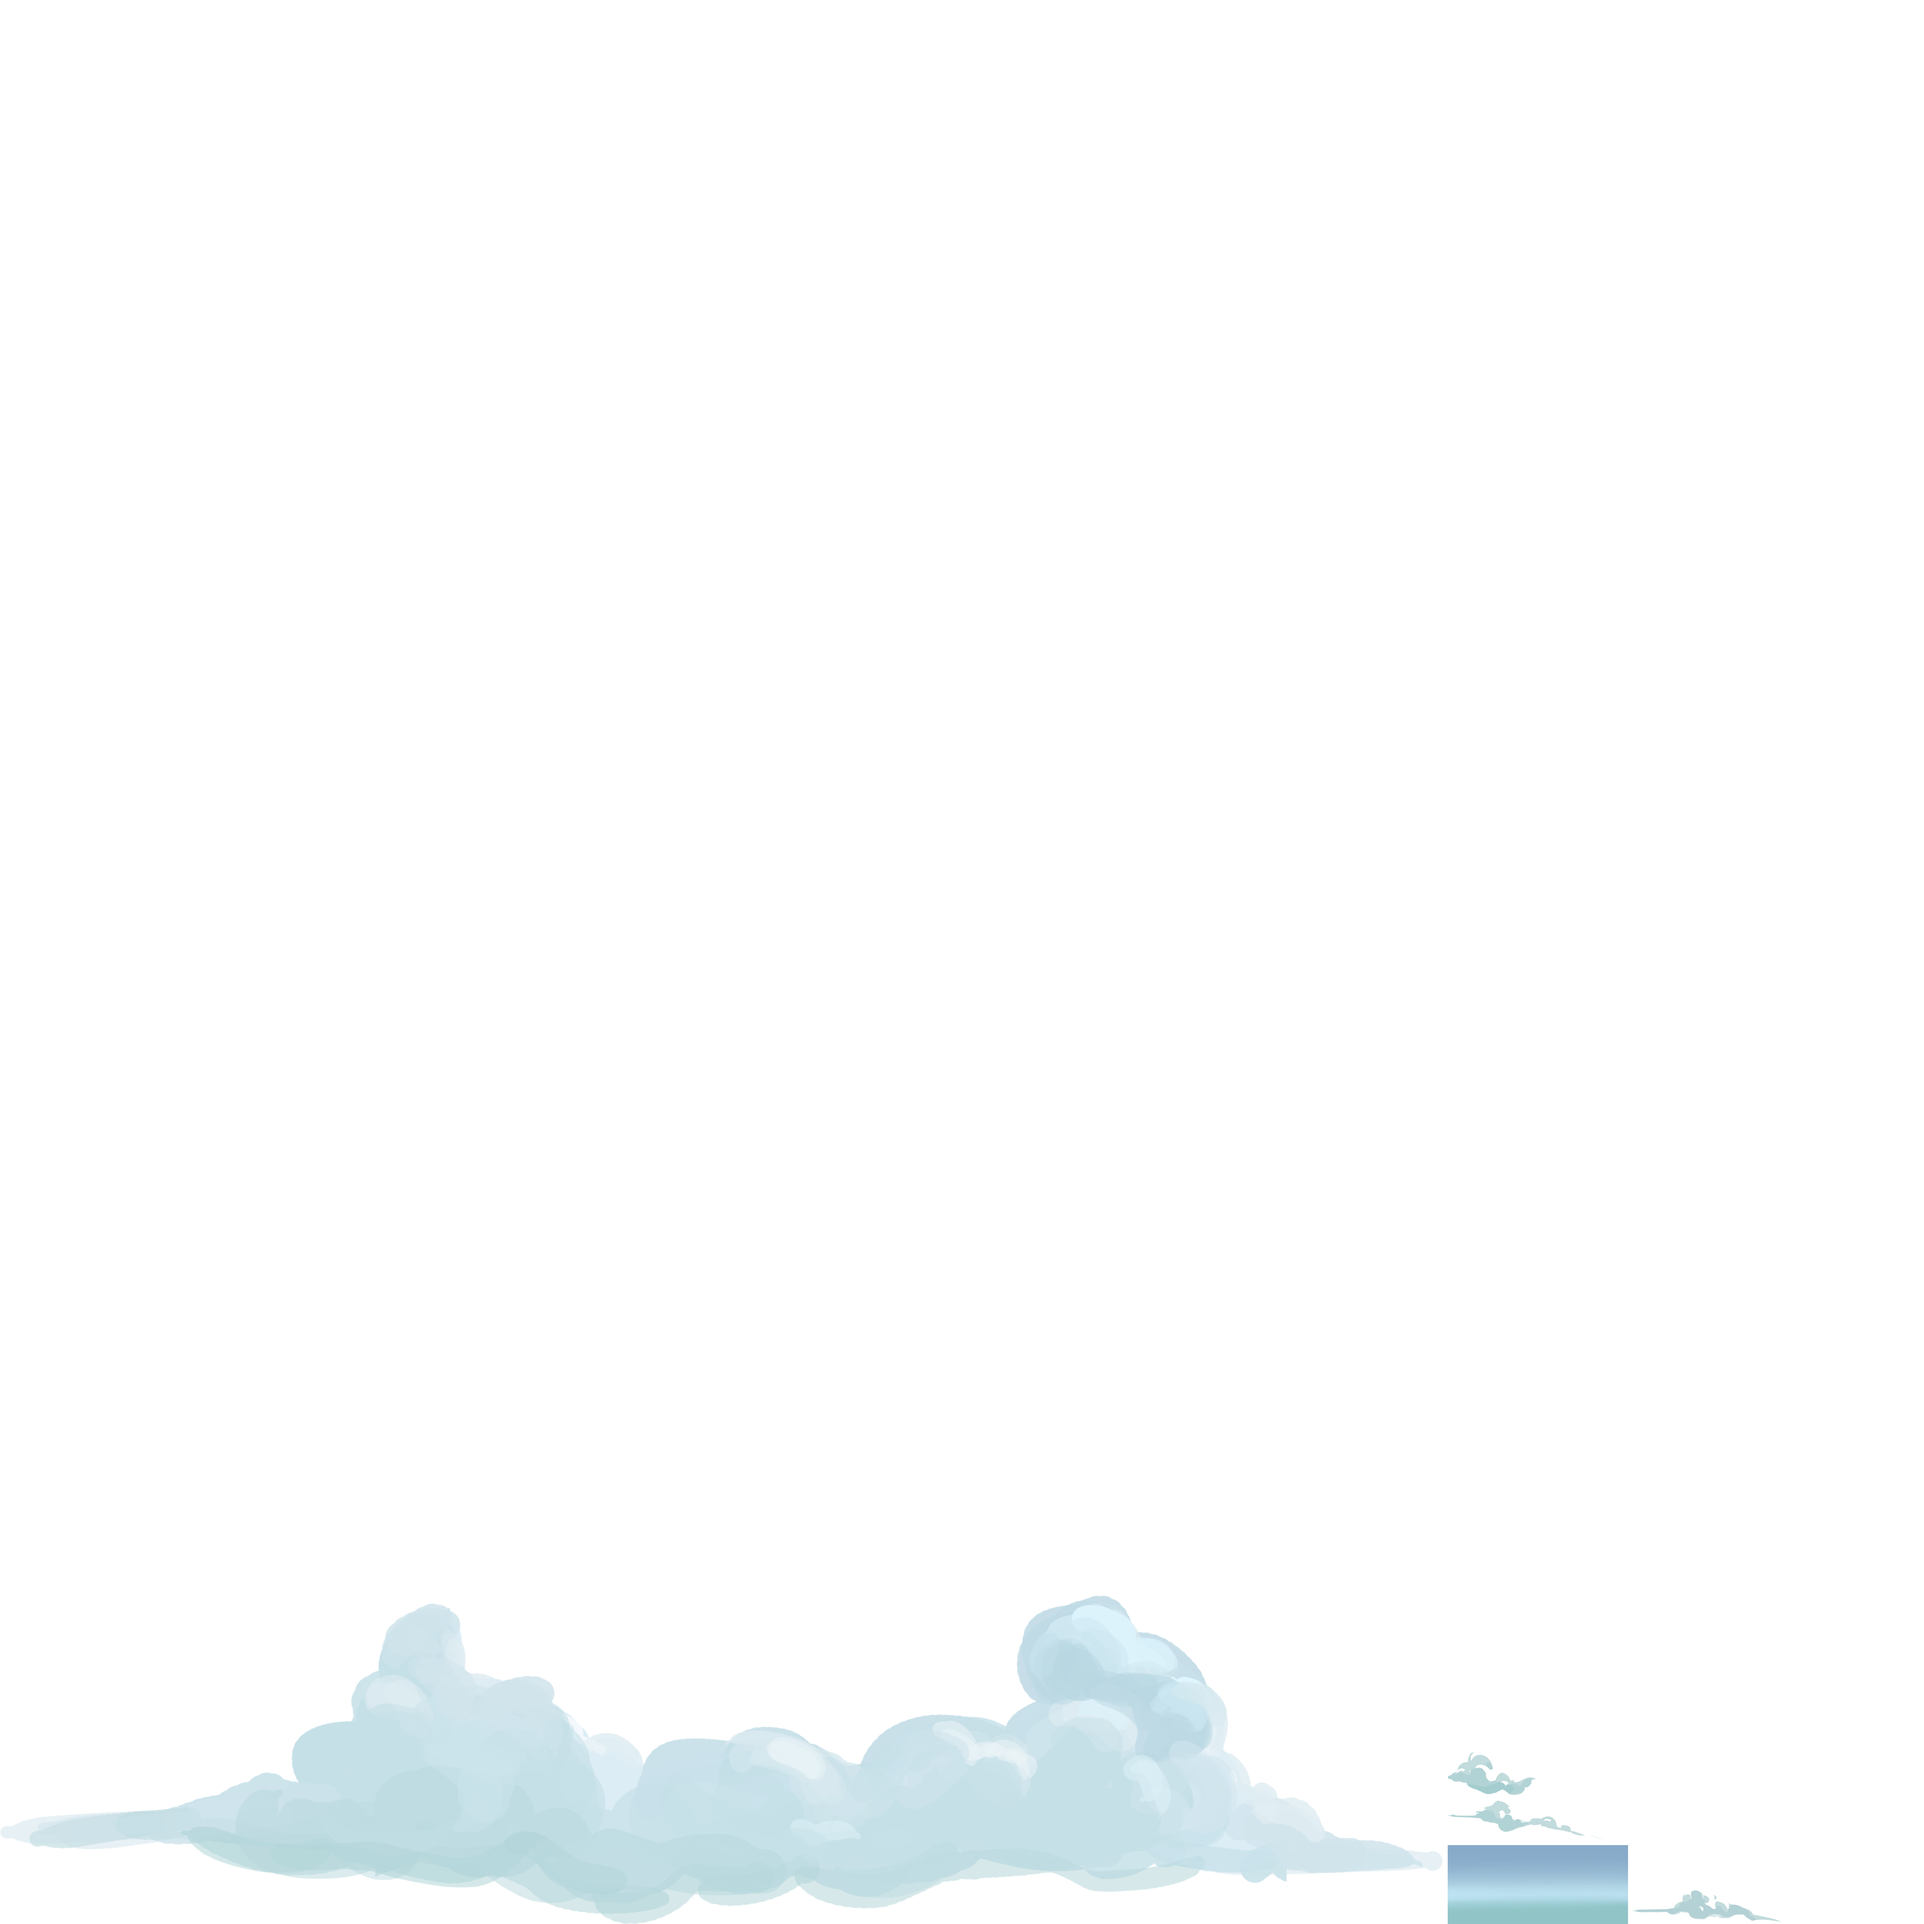
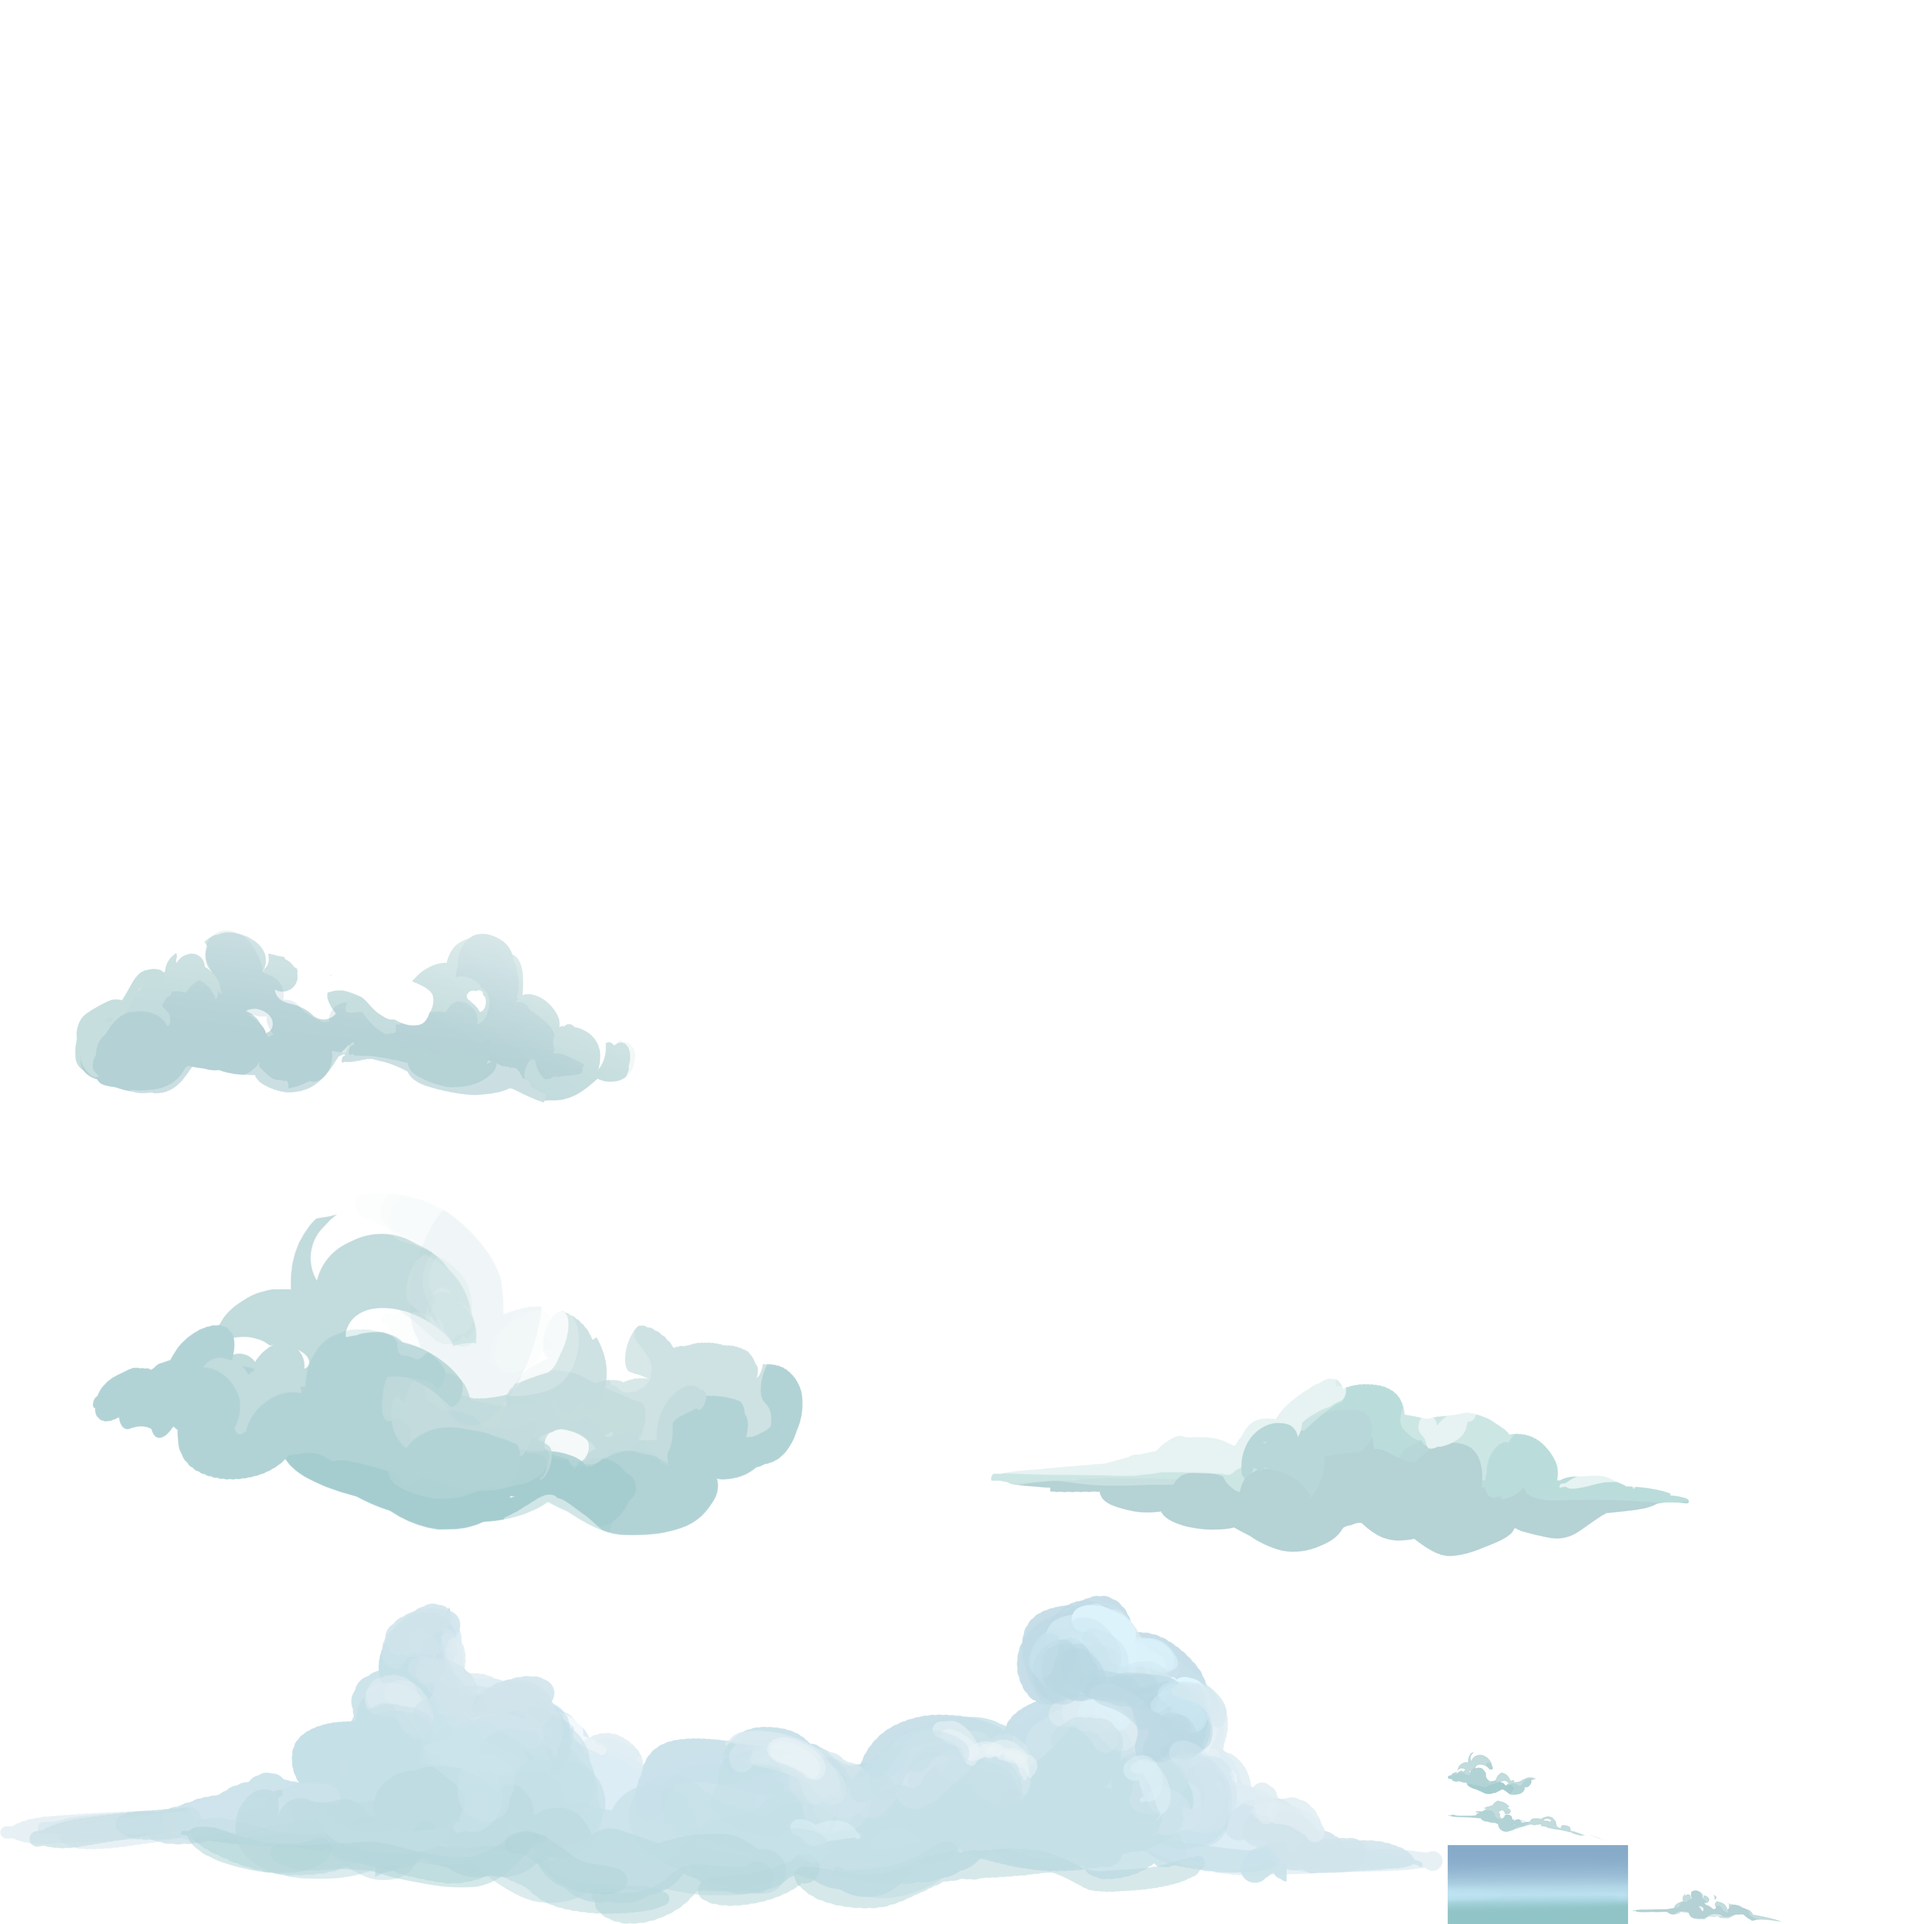
Cleaned up the Sea Captain and added in the new clouds

Changed region(s): [[0.0312, 0.625, 0.4375, 0.8125], [0.0312, 0.4688, 0.3438, 0.5938], [0.5312, 0.7188, 0.875, 0.8125]]

diff --git a/assets/scripts/NPC/SpecificNPCs/SeaCaptain/SeaCaptainTreasureHuntSchedule.cs b/assets/scripts/NPC/SpecificNPCs/SeaCaptain/SeaCaptainTreasureHuntSchedule.cs
@@ -7,11 +7,11 @@ public class SeaCaptainTreasureHuntSchedule : Schedule {
 	
 	protected override void Init ()
 	{
-		Vector3 startingPosition = new Vector3(74f, -3.09f + LevelManager.levelYOffSetFromCenter, 0f);
-		Vector3 farmDigPos = new Vector3(52.5f, 16f + LevelManager.levelYOffSetFromCenter, 0f);
-		Vector3 reflectDigPos = new Vector3(-28f, 18f + LevelManager.levelYOffSetFromCenter, 0f);
-		Vector3 carpenterDigPos = new Vector3(16f, -1f + LevelManager.levelYOffSetFromCenter, 0f);
-		Vector3 beachDigPos = new Vector3(43f, -7.5f + LevelManager.levelYOffSetFromCenter, 0f);
+		Vector3 startingPosition = new Vector3(74f, -3.09f + LevelManager.levelYOffSetFromCenter, 1f);
+		Vector3 farmDigPos = new Vector3(52.5f, 16f + LevelManager.levelYOffSetFromCenter, 1f);
+		Vector3 reflectDigPos = new Vector3(-28f, 18f + LevelManager.levelYOffSetFromCenter, 1f);
+		Vector3 carpenterDigPos = new Vector3(16f, -1f + LevelManager.levelYOffSetFromCenter, 1f);
+		Vector3 beachDigPos = new Vector3(52f, -7.5f + LevelManager.levelYOffSetFromCenter, 1f);
 		
 		NPCChat startHuntChat = new NPCChat();
 		startHuntChat.AddChatInfo(new ChatInfo(_toManage, "Thanks matey! Let's go find me some treasure!"));
@@ -46,15 +46,19 @@ public class SeaCaptainTreasureHuntSchedule : Schedule {
 		SetCanInteract(false);
 		Add(new Task(new NPCChatState(_toManage, _toManage.player, startHuntChat)));
 		Add(new Task(new MoveThenMarkDoneState(_toManage, farmDigPos), _toManage, 3f, "It feels good to be exploring again."));
+		Add(new Task(new NPCChatState(_toManage, _toManage.player, new NPCChat(_toManage, "This looks like the spot"))));
 		Add(new Task(new DigState(_toManage, StringsItem.Apple)));
 		Add(new Task(new NPCChatState(_toManage, _toManage.player, farmDigChat)));
 		Add(new Task(new MoveThenMarkDoneState(_toManage, reflectDigPos), _toManage, 0, "Come now. The map says something about a reflection tree."));
+		Add(new Task(new NPCChatState(_toManage, _toManage.player, new NPCChat(_toManage, "Hopefully this is the spot"))));
 		Add(new Task(new DigState(_toManage)));
 		Add(new Task(new NPCChatState(_toManage, _toManage.player, reflectDigChat)));
-		Add(new Task(new MoveThenMarkDoneState(_toManage, carpenterDigPos), _toManage, 0, "Let's try there and hope the grumpy guy isn't there."));
+		Add(new Task(new MoveThenMarkDoneState(_toManage, carpenterDigPos), _toManage, 0, "Let's try over there and hope the grumpy guy isn't there."));
+		Add(new Task(new NPCChatState(_toManage, _toManage.player, new NPCChat(_toManage, "This had better be the spot!"))));
 		Add(new Task(new DigState(_toManage, StringsItem.Flute)));
 		Add(new Task(new NPCChatState(_toManage, _toManage.player, carpenterDigChat)));
 		Add(new Task(new MoveThenMarkDoneState(_toManage, beachDigPos), _toManage, 0, "Now let's go dig up some treasure!"));
+		Add(new Task(new NPCChatState(_toManage, _toManage.player, new NPCChat(_toManage, "If this isn't where me treasure be buried, then I must not like gold"))));
 		Add(new Task(new DigState(_toManage, StringsItem.Portrait)));
 		Add(new Task(new NPCChatState(_toManage, _toManage.player, beachDigChat)));
 		Add(new Task(new MoveThenMarkDoneState(_toManage, startingPosition), _toManage, 0, "Well... thanks for your help. I have to find a way off this island now."));

diff --git a/assets/scripts/NPC/SpecificNPCs/SeaCaptain/SeaCaptainMiddle.cs b/assets/scripts/NPC/SpecificNPCs/SeaCaptain/SeaCaptainMiddle.cs
@@ -21,6 +21,7 @@ public class SeaCaptainMiddle : NPC {
 		id = NPCIDs.SEA_CAPTAIN;
 		base.Init();
 		startingPos = this.transform.position;
+		this.SetCharacterPortrait(StringsNPC.Happy);
 	}
 	
 	protected override void SetFlagReactions(){
@@ -156,17 +157,20 @@ public class SeaCaptainMiddle : NPC {
 		#region update methods
 		public void UpdateWhyHere(){
 			_allChoiceReactions.Remove(whyHereChoice);
+			_npcInState.SetCharacterPortrait(StringsNPC.Happy);
 			GUIManager.Instance.RefreshInteraction();
 		}
 		
 		public void UpdateWhereShip(){
 			_allChoiceReactions.Remove(whereShipChoice);
+			_npcInState.SetCharacterPortrait(StringsNPC.Default);
 			GUIManager.Instance.RefreshInteraction();
 		}
 		
 		public void UpdateTreasureHuntBegins() {
 			GUIManager.Instance.CloseInteractionMenu();
 			FlagManager.instance.SetFlag(FlagStrings.TreasureHuntBegin);
+			_npcInState.SetCharacterPortrait(StringsNPC.Sad);
 		}
 		#endregion
 	

diff --git a/assets/scripts/character/states/ActionStates/DigState.cs b/assets/scripts/character/states/ActionStates/DigState.cs
@@ -27,6 +27,7 @@ public class DigState : PlayAnimationThenDoState {
 				Object itemToPlace = Resources.Load(_itemToDrop);
 				if (itemToPlace == null){
 					Debug.Log("Did not find " + _itemToDrop);
+					character.EnterState(new MarkTaskDone(character));
 					return;
 				}
 				Object newItem = GameObject.Instantiate(itemToPlace, character.GetFeet(), Quaternion.identity);
@@ -34,6 +35,7 @@ public class DigState : PlayAnimationThenDoState {
 			}
 			
 			character.EnterState(new MarkTaskDone(character));
+			return;
 		}
 		
 		base.Update();

diff --git a/assets/Scripts/Chat/NPCChat.cs b/assets/Scripts/Chat/NPCChat.cs
@@ -28,6 +28,12 @@ public class NPCChat {
 		_chatIndex = 0;
 	}
 	
+	public NPCChat(NPC npcToTalk, string chatToSay){
+		_chatTexts = new List<ChatInfo>();
+		_chatIndex = 0;
+		AddChatInfo(new ChatInfo(npcToTalk, chatToSay));
+	}
+	
 	public NPCChat(List<ChatInfo> chatTexts) : base(){
 		_chatTexts = chatTexts;	
 	}
